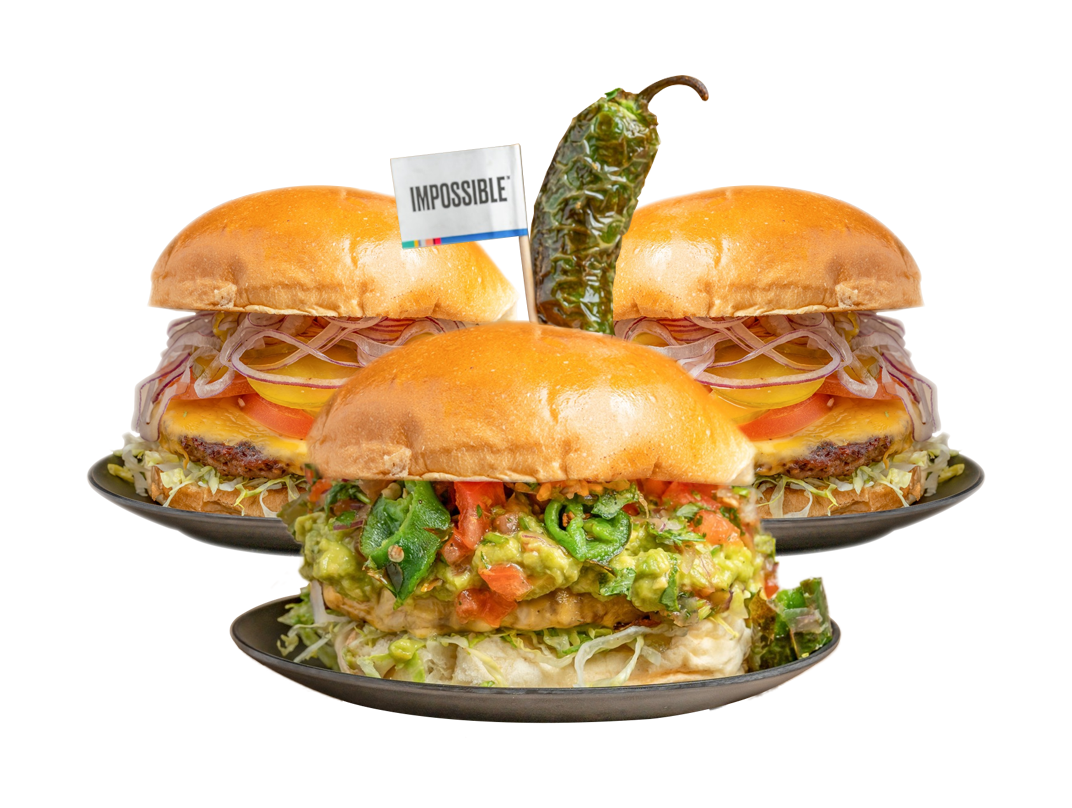
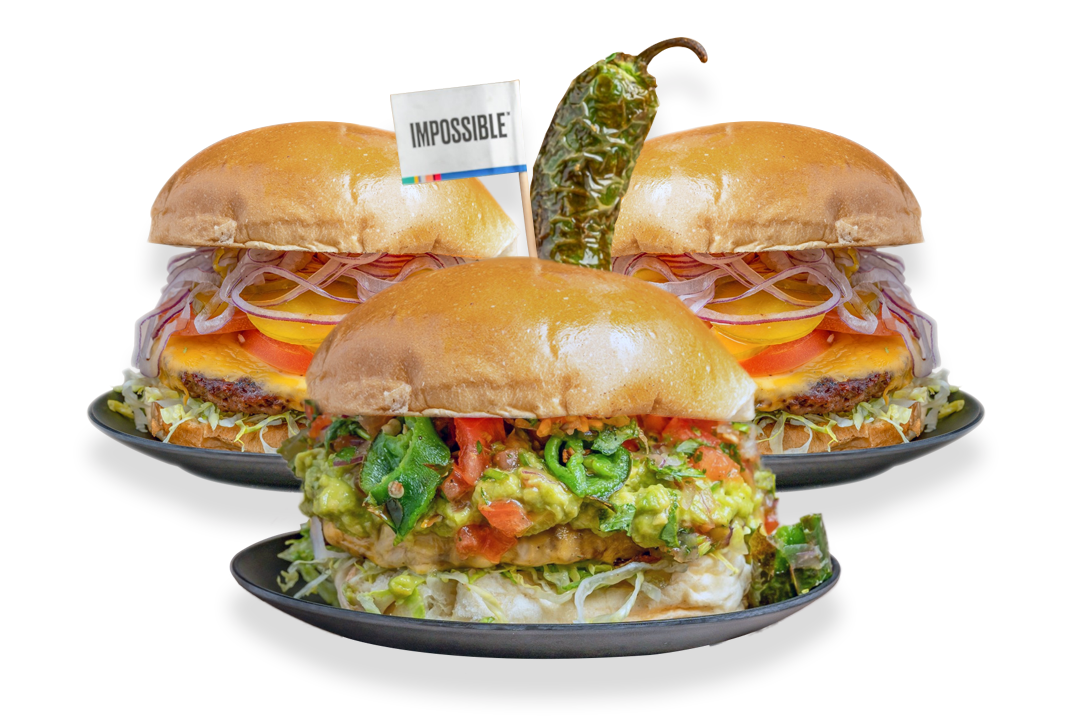
atualização projeto

diff --git a/estilos/style.css b/estilos/style.css
@@ -16,12 +16,14 @@
     --links: #5c4839;
     --order: #bc4721;
     --contraste: #006a48;
+    --verdeclaro: #00c47f;
     --fonte-menu: Staaliches;
     --fonte-links: JosefinSans;
 }
 * {
     margin: 0px;
     padding: 0px;
+    box-sizing: border-box;
 }
 body {
     background-color: var(--fundo);
@@ -32,15 +34,14 @@ header {
     z-index: 2;
 }
 header > img#logo {
-    position: relative;
+    display: block;
+    margin: auto;
     width: 80vw;
     left: 50%;
-    transform: translateX(-50%);
     opacity: 0;
     transition: 0.4s;
 }
 header > ul {
-    margin-top: 5%;
     list-style-type: none;
     text-align: center;
     opacity: 0;
@@ -54,33 +55,44 @@ header > ul > li {
 header > ul > li > a {
     font-family: var(--fonte-links);
     color: var(--links);
-    font-size: 1.3em;
+    font-size: 1.5em;
+    padding: 5px;
     font-weight: bold;
     text-decoration: none;
 }
 main {
     background-color: var(--fundo);
 }
+main > section#sectionbotao{
+    position: fixed;
+    top: 90vh;
+    left: 80vw;
+    width: 15vw;
+    height: 15vw;
+    z-index: 2;
+}
+main #botao {
+    width: 100%;
+}
 main > section#principal {
     width: 100vw;
-    height: 70vh;
+    height: 73vh;
+    display: flex;
+    justify-content: center;
+    align-items: center;
 }
 main > section#principal > img#burger {
     position: absolute;
-    width: 90vw;
-    z-index: 2;
-    top: 53%;
-    left: 50%;
-    transform: translate(-50%, -50%);
+    width: 100vw;
+    top: 45%;
     opacity: 0;
     transition: 0.3s;
+    z-index: 2;
 }
 main > section#principal > img#ingredients {
     position: absolute;
-    width: 100vw;
-    z-index: 1;
-    left: -1.2%;
-    top: 33%;
+    width: 100%;
+    top: 40%;
     opacity: 0;
     transition: 0.3s;
 }
@@ -111,28 +123,33 @@ main .titulo-section {
     border-top: 5px dotted var(--contraste);
 }
 main > section#menu {
+    width: 100vw;
     height: 100vh;
+    overflow-x: hidden;
 }
 main .menu-page {
     transition: left 0.3s;
   }
 main > section#menu > div#menutodos{
     height: 78.7vh;
+    display: flex;
+    justify-content: center;
+    align-items: center;
 }
 main > section#menu > nav {
     text-align: center;
-    margin-top: 6%;
-    margin-bottom: 6%;
+    padding-top: 30px;
 }
 main > section#menu > nav > a {
     display: inline-block;
-    margin-bottom: 20px;
+    margin-bottom: 10px;
+    background-color: var(--contraste);
+    border-radius: 20px;
     font-family: var(--fonte-links);
-    color: var(--contraste);
+    color: white;
     text-decoration: none;
-    padding: 3px;
-    border-left: 2px solid var(--contraste);
-    border-right: 2px solid var(--contraste);
+    padding: 10px;
+    font-size: 1.3em;
 }
 main > section#menu > div#menutodos h2 {
     font-family: var(--fonte-menu);
@@ -155,6 +172,7 @@ main > section#menu > div#menutodos p {
 main > section#menu > div#menutodos > div#menuburgers {
     position: absolute;
     height: 60vh;
+    width: 100vw;
     background-image: url(../imagens/Fundo-Burger.png);
     background-size: contain;
     background-repeat: no-repeat;
@@ -173,6 +191,7 @@ main > section#menu > div#menutodos > div#menusoft-drinks {
 main > section#menu > div#menutodos > div#menuappetizer {
     position: absolute;
     height: 60vh;
+    width: 100vw;
     left: 100%;
     background-image: url(../imagens/Fundo-Tortillas.png);
     background-size: contain;
@@ -182,6 +201,7 @@ main > section#menu > div#menutodos > div#menuappetizer {
 main > section#menu > div#menutodos > div#menufries-and-más {
     position: absolute;
     height: 60vh;
+    width: 100vw;
     left: 100%;
     background-image: url(../imagens/Fundo-Acompanhamentos.png);
     background-size: contain;
@@ -191,6 +211,7 @@ main > section#menu > div#menutodos > div#menufries-and-más {
 main > section#menu > div#menutodos > div#menusalads {
     position: absolute;
     height: 60vh;
+    width: 100vw;
     left: 100%;
     background-image: url(../imagens/Fundo-Salada.png);
     background-size: contain;
@@ -200,6 +221,7 @@ main > section#menu > div#menutodos > div#menusalads {
 main > section#menu > div#menutodos > div#menusweets {
     position: absolute;
     height: 60vh;
+    width: 100vw;
     left: 100%;
     background-image: url(../imagens/Fundo-Sobremesa.png);
     background-size: contain;

diff --git a/index.html b/index.html
@@ -18,6 +18,9 @@
        
     </header>
     <main>
+        <section id="sectionbotao">
+            <img id='botao' src="imagens/Botao.png" alt="Botão para voltar ao topo">
+        </section>
         <section id="principal">
             <img id="burger" src="imagens/Burger.png" alt="Burger">
             <img id="ingredients" src="imagens/Ingredientes.png" alt="Ingredients">
@@ -134,8 +137,8 @@
         </section>
         <section id="location">
             <h2 class="titulo-section">Location</h2>
-                <iframe src="https://www.google.com/maps/embed?pb=!1m18!1m12!1m3!1d57488.88376257407!2d-80.1994018920318!3d25.768739060052926!2m3!1f0!2f0!3f0!3m2!1i1024!2i768!4f13.1!3m3!1m2!1s0x88d9b53ac420a24f%3A0xb5f7df8cc68e455f!2sBurgermeister%20South%20Beach!5e0!3m2!1spt-BR!2sbr!4v1689123296785!5m2!1spt-BR!2sbr" width="400" height="300" style="border:0;" loading="lazy" referrerpolicy="no-referrer-when-downgrade"></iframe>
-                <iframe src="https://www.google.com/maps/embed?pb=!1m18!1m12!1m3!1d57491.48437978615!2d-80.26059866874998!3d25.763369500000007!2m3!1f0!2f0!3f0!3m2!1i1024!2i768!4f13.1!3m3!1m2!1s0x88d9b71de93f0085%3A0x9038734ed08bece5!2sBurgermeister%20Brickell!5e0!3m2!1spt-BR!2sbr!4v1689124231476!5m2!1spt-BR!2sbr" width="400" height="300" style="border:0;" loading="lazy" referrerpolicy="no-referrer-when-downgrade"></iframe>
+            <iframe src="https://www.google.com/maps/embed?pb=!1m18!1m12!1m3!1d57488.88376257407!2d-80.1994018920318!3d25.768739060052926!2m3!1f0!2f0!3f0!3m2!1i1024!2i768!4f13.1!3m3!1m2!1s0x88d9b53ac420a24f%3A0xb5f7df8cc68e455f!2sBurgermeister%20South%20Beach!5e0!3m2!1spt-BR!2sbr!4v1689123296785!5m2!1spt-BR!2sbr" width="400" height="300" style="border:0;" loading="lazy" referrerpolicy="no-referrer-when-downgrade"></iframe>
+            <iframe src="https://www.google.com/maps/embed?pb=!1m18!1m12!1m3!1d57491.48437978615!2d-80.26059866874998!3d25.763369500000007!2m3!1f0!2f0!3f0!3m2!1i1024!2i768!4f13.1!3m3!1m2!1s0x88d9b71de93f0085%3A0x9038734ed08bece5!2sBurgermeister%20Brickell!5e0!3m2!1spt-BR!2sbr!4v1689124231476!5m2!1spt-BR!2sbr" width="400" height="300" style="border:0;" loading="lazy" referrerpolicy="no-referrer-when-downgrade"></iframe>
         </section>
     </main>
     <script src="js/script.js"></script>

diff --git a/js/script.js b/js/script.js
@@ -8,12 +8,11 @@ const botaoOrder = document.getElementById('order')
 
 window.onload = function(){
     animacaoBurger()
-    scrollToTop()
 }
 
 function animacaoBurger(){
     burger.style.opacity = 1
-    burger.style.top = "50%"
+    burger.style.top = "37%"
     setTimeout(function(){
         animacaoIngredientes()
     }, 300)
@@ -24,7 +23,7 @@ function animacaoBurger(){
 
 function animacaoIngredientes(){
     ingredientes.style.opacity = 0.7
-    ingredientes.style.top = '30%'
+    ingredientes.style.top = '35%'
 }
 
 function animacaoHome(){
@@ -44,8 +43,9 @@ function scrollToSelection(event){
     var idLink = event.target
     console.log(idLink)
 }
-
-function scrollToTop() {
+var botaoTopo = document.querySelector('#botao')
+botaoTopo.addEventListener('click', scrollToTop)
+function scrollToTop(){
     window.scrollTo({ top: 0, behavior: 'smooth'})
   }
 //animação do menu
